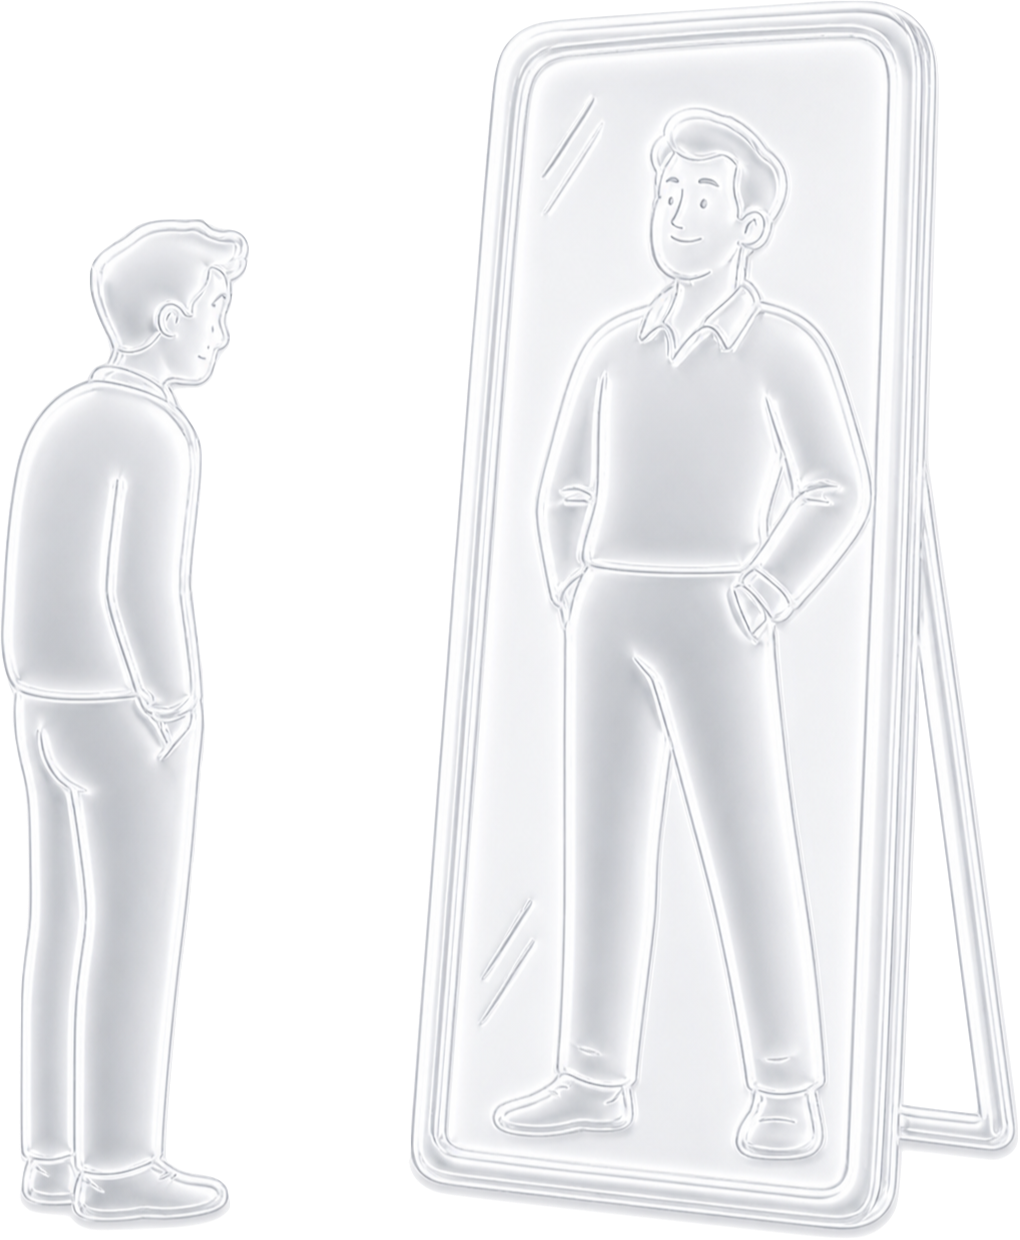
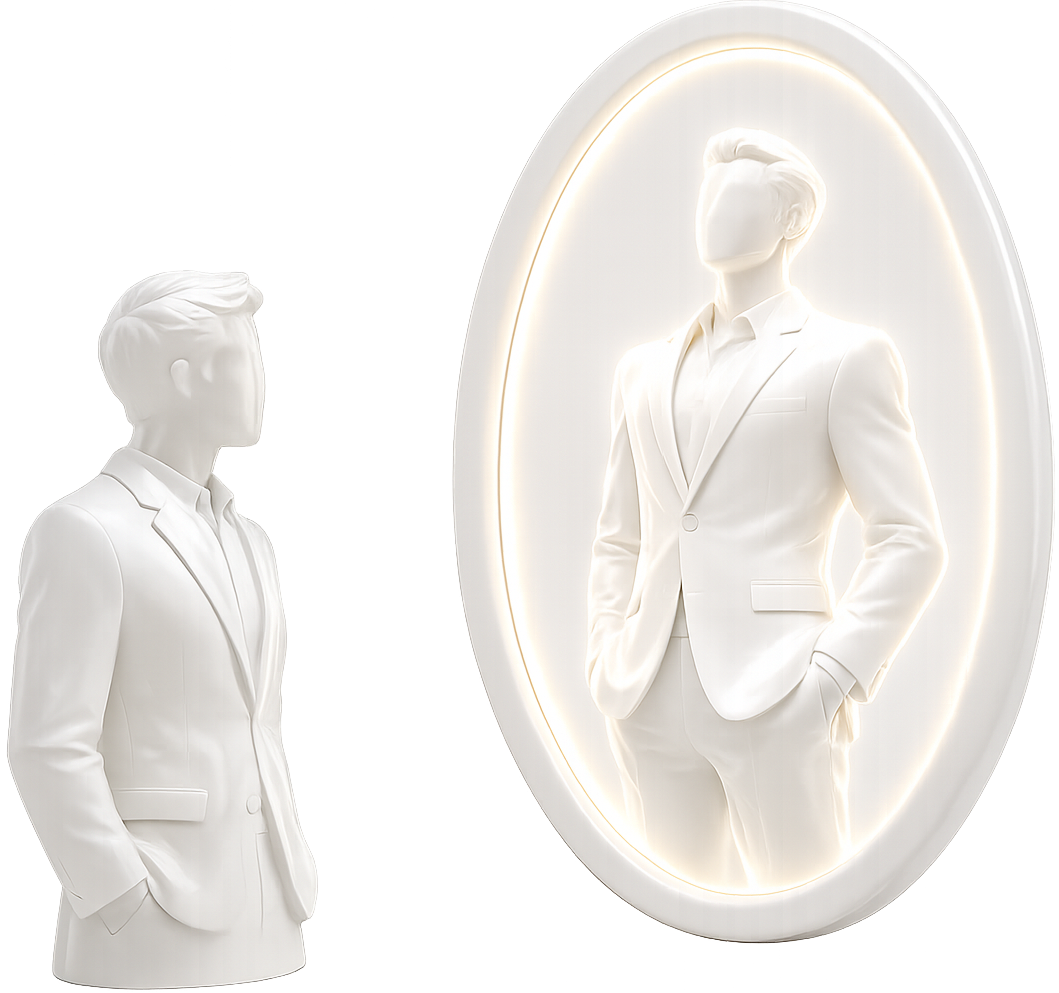
Update landing app assets

diff --git a/index.html b/index.html
@@ -145,7 +145,7 @@
 
       <section class="section split">
         <div class="media-asset" data-reveal>
-          <img src="./assets/states/signaling.png" alt="Abstract Growvo state illustration" />
+          <img src="./assets/states/leadership.png" alt="Abstract Growvo leadership illustration" />
         </div>
         <div class="copy-panel" data-reveal>
           <p class="eyebrow">Four minutes a day</p>